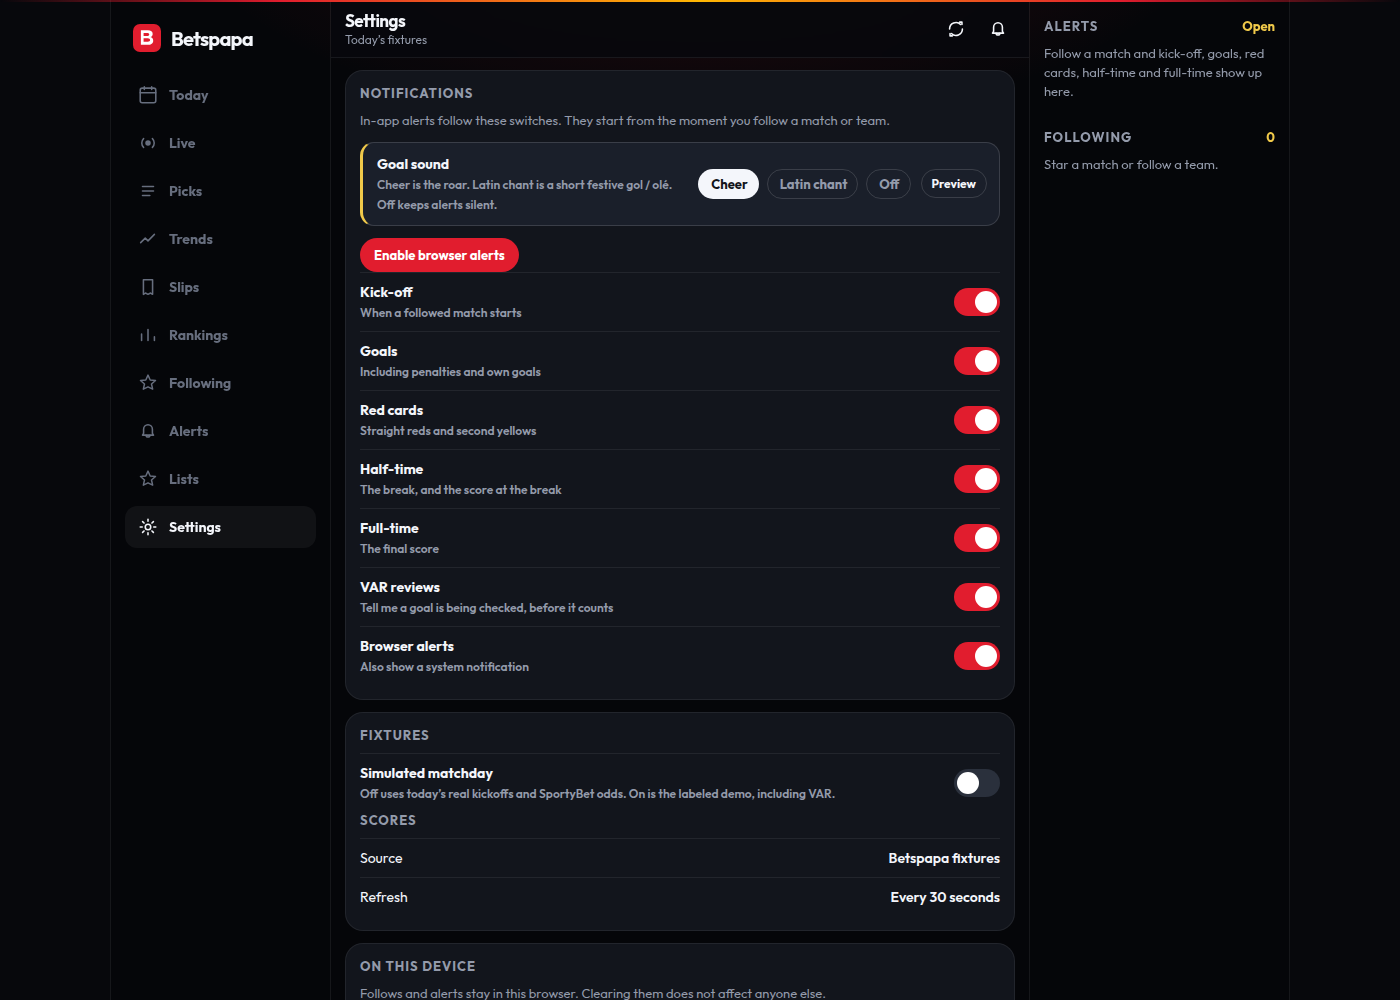
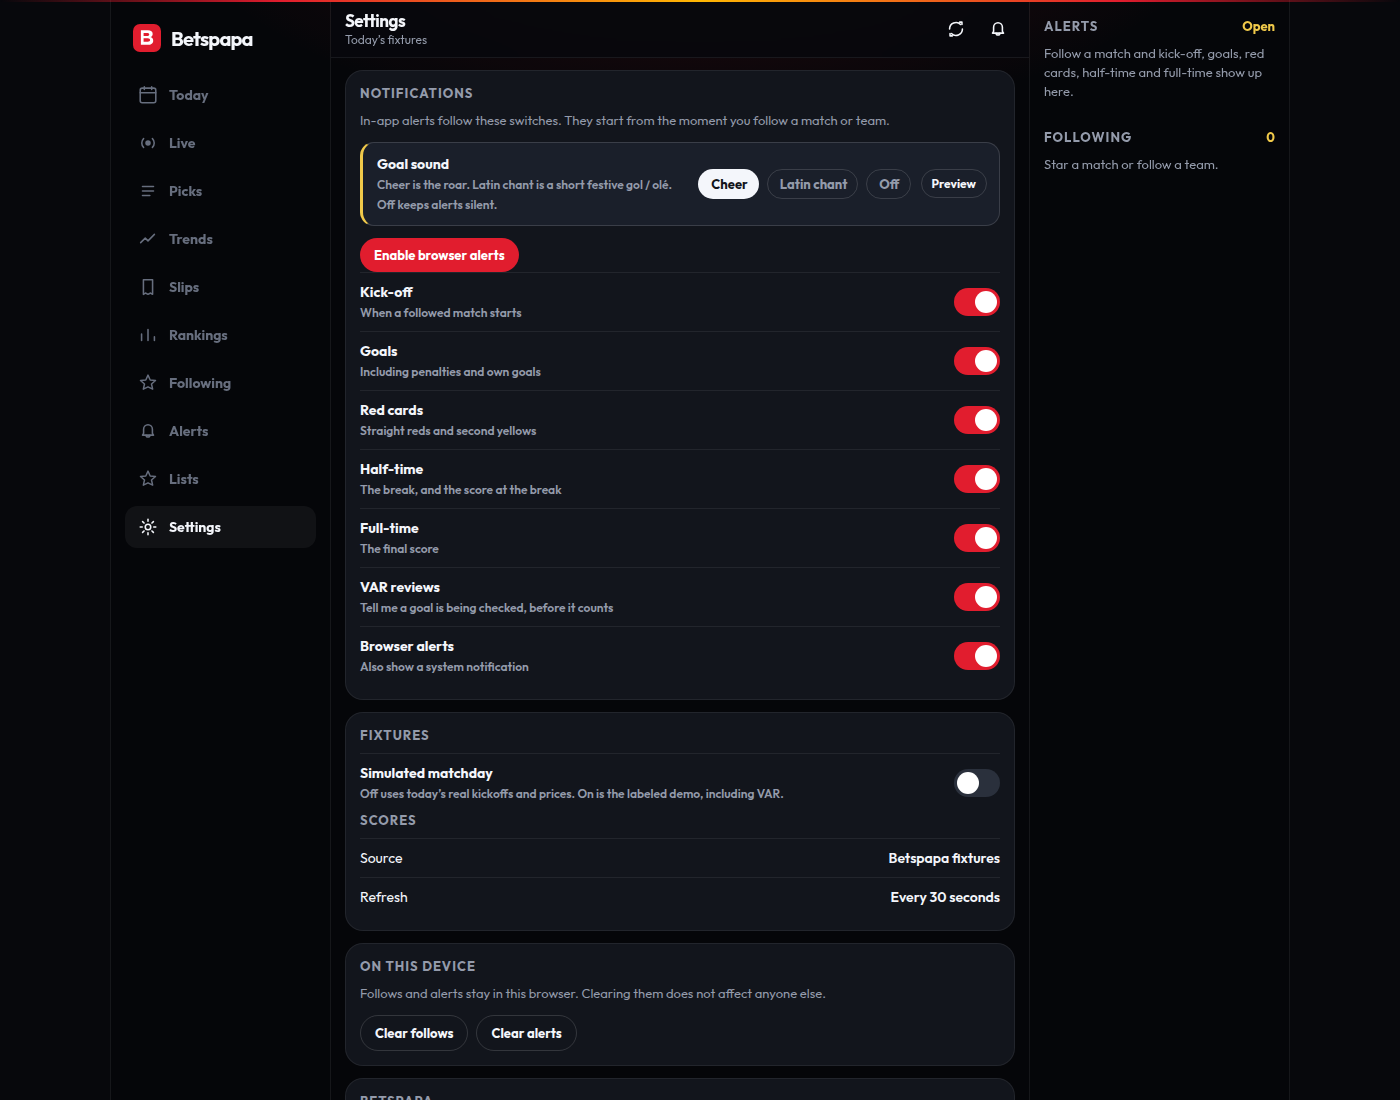
Book qualifying trends on-site and hide bookmaker price labels.
Qualifying tips land on the slip automatically and settle there. SportyBet and Betway cards stay on that slip with an honest unavailable code, and prices are no longer labeled as a bookmaker source.

diff --git a/src/state/product.tsx b/src/state/product.tsx
@@ -5,6 +5,7 @@ import {
   isBlacklisted,
   isGreenlisted,
   listTrends,
+  qualifying,
   trendsFromPicks,
   profile,
   seedLedger,
@@ -75,7 +76,8 @@ function notice(id: string, matchId: string, kind: InboxItem['kind'], title: str
 
 export function ProductProvider({ children }: { children: ReactNode }) {
   const { matches, t0, pushNotices } = useStore();
-  const [slip, setSlip] = useState<string[]>(() => read<string[]>(SLIP_KEY, []));
+  const [manual, setManual] = useState<string[]>(() => read<string[]>(SLIP_KEY, []));
+  const [dismissed, setDismissed] = useState<string[]>(() => read<string[]>('betspapa.dismissed.v1', []));
   const [lists, setLists] = useState<ListItem[]>(() => read<ListItem[]>(LIST_KEY, []));
   const [extra, setExtra] = useState<LedgerEntry[]>(() => read<LedgerEntry[]>(LEDGER_KEY, []));
   const baseline = useRef<{ t0: number; status: Map<string, LegStatus>; codes: Map<string, LegStatus> } | null>(null);
@@ -84,13 +86,22 @@ export function ProductProvider({ children }: { children: ReactNode }) {
   const trends = useMemo(() => (picks.some((pick) => pick.trendId.startsWith('price:')) ? trendsFromPicks(picks) : listTrends()), [picks]);
   const ledger = useMemo(() => [...seedLedger(), ...extra], [extra]);
   const greenMarkets = lists.filter((item) => item.list === 'green' && item.scope === 'market').map((item) => item.id);
+  const autoIds = useMemo(
+    () => qualifying(picks).filter((pick) => !isBlacklisted(pick, lists)).map((pick) => pick.id),
+    [picks, lists],
+  );
+  const slip = useMemo(
+    () => [...new Set([...autoIds.filter((id) => !dismissed.includes(id)), ...manual.filter((id) => !dismissed.includes(id))])],
+    [autoIds, manual, dismissed],
+  );
   const suggestions = useMemo(() => suggestPicks(picks, slip, greenMarkets).filter((pick) => !isBlacklisted(pick, lists)), [picks, slip, greenMarkets, lists]);
   const slipPicks = useMemo(() => picks.filter((pick) => slip.includes(pick.id)), [picks, slip]);
   const codes = useMemo(() => bookingCodes(slipPicks), [slipPicks]);
   const visiblePicks = useMemo(() => picks.filter((pick) => !isBlacklisted(pick, lists)), [picks, lists]);
   const hiddenCount = picks.length - visiblePicks.length;
 
-  useEffect(() => write(SLIP_KEY, slip), [slip]);
+  useEffect(() => write(SLIP_KEY, manual), [manual]);
+  useEffect(() => write('betspapa.dismissed.v1', dismissed), [dismissed]);
   useEffect(() => write(LIST_KEY, lists), [lists]);
   useEffect(() => write(LEDGER_KEY, extra), [extra]);
 
@@ -131,24 +142,30 @@ export function ProductProvider({ children }: { children: ReactNode }) {
         result: pick.status,
       });
     }
-    for (const code of codes) {
-      if (!code.legs.length || code.status === 'open') continue;
-      const before = baseline.current.codes.get(code.id) ?? 'open';
-      if (before === code.status) continue;
+    const slipStatus: LegStatus = !slipPicks.length
+      ? 'open'
+      : slipPicks.some((pick) => pick.status === 'bust')
+        ? 'bust'
+        : slipPicks.every((pick) => pick.status === 'won')
+          ? 'won'
+          : 'open';
+    const beforeSlip = baseline.current.codes.get('slip') ?? 'open';
+    if (slipPicks.length && beforeSlip !== slipStatus && slipStatus !== 'open') {
       notes.push(
         notice(
-          `code:${t0}:${code.id}:${code.status}:${code.code}`,
-          code.legs[0]?.matchId ?? '',
-          code.status === 'won' ? 'win' : 'bust',
-          code.status === 'won' ? `Booking won · ${code.name}` : `Booking bust · ${code.name}`,
-          `${code.code} · demo code`,
+          `slip:${t0}:${slipStatus}`,
+          slipPicks[0]?.matchId ?? '',
+          slipStatus === 'won' ? 'win' : 'bust',
+          slipStatus === 'won' ? 'Slip won' : 'Slip bust',
+          'Booked trends settled on Betspapa. Bookmaker codes are still unavailable.',
         ),
       );
     }
+    codeStatus.set('slip', slipStatus);
     baseline.current = { t0, status, codes: codeStatus };
     if (rows.length) setExtra((current) => [...rows, ...current].slice(0, 200));
     if (notes.length) pushNotices(notes);
-  }, [picks, codes, matches, t0, pushNotices]);
+  }, [picks, codes, matches, slipPicks, t0, pushNotices]);
 
   const value = useMemo<Product>(
     () => ({
@@ -161,8 +178,14 @@ export function ProductProvider({ children }: { children: ReactNode }) {
       ledger,
       codes,
       hiddenCount,
-      addLeg: (id) => setSlip((current) => (current.includes(id) ? current : [...current, id])),
-      removeLeg: (id) => setSlip((current) => current.filter((item) => item !== id)),
+      addLeg: (id) => {
+        setDismissed((current) => current.filter((item) => item !== id));
+        setManual((current) => (current.includes(id) ? current : [...current, id]));
+      },
+      removeLeg: (id) => {
+        setDismissed((current) => (current.includes(id) ? current : [...current, id]));
+        setManual((current) => current.filter((item) => item !== id));
+      },
       toggleList: (item, list) =>
         setLists((current) => {
           const existing = current.find((entry) => entry.scope === item.scope && entry.id === item.id && entry.list === list);

diff --git a/src/pages/SlipsPage.tsx b/src/pages/SlipsPage.tsx
@@ -1,4 +1,3 @@
-import { useState } from 'react';
 import { PickCard } from '../components/PickCard';
 import { cx } from '../lib/format';
 import { useProduct } from '../state/product';
@@ -6,46 +5,41 @@ import { useProduct } from '../state/product';
 export function SlipsPage() {
   const { picks, slip, codes } = useProduct();
   const legs = picks.filter((pick) => slip.includes(pick.id));
-  const [copied, setCopied] = useState('');
+  const won = legs.filter((pick) => pick.status === 'won').length;
+  const bust = legs.filter((pick) => pick.status === 'bust').length;
+  const open = legs.length - won - bust;
   return (
     <div className="stack">
-      <p className="page-lead">Booking codes are demo slips. No bookmaker API is connected. Each desk only prices the markets it lists, and the code changes as the legs change.</p>
-      {legs.length === 0 ? (
-        <div className="empty">
-          <h2>Slip is empty</h2>
-          <p>Add a qualifying pick. PapaSlip, Northline, and Kiosk Demo will each write a code for the markets they cover.</p>
-        </div>
-      ) : (
-        legs.map((pick) => <PickCard key={pick.id} pick={pick} />)
-      )}
+      <p className="page-lead">
+        Every tip above 80% is booked on this slip. Betspapa tracks each leg and settles wins and busts here. Bookmaker codes stay unavailable until a live booking connection exists.
+      </p>
+      <p className="page-lead">
+        {legs.length} booked · {open} open · {won} won · {bust} bust
+      </p>
       <section className="stack-block">
-        <h2>Demo booking codes</h2>
+        <h2>Booking codes</h2>
         {codes.map((code) => (
           <article key={code.id} className={cx('code-card', code.status !== 'open' && `pick-${code.status}`)}>
             <header>
               <strong>{code.name}</strong>
-              <span>{code.note}</span>
+              <span>{code.bookingState === 'ready' ? 'Code ready' : 'Code unavailable'}</span>
             </header>
-            <p className="booking-code">{code.code || 'Add a covered market'}</p>
+            <p className="booking-code">{code.code || 'Unavailable'}</p>
             <p className="lede">
-              {code.legs.length} covered
-              {code.skipped.length > 0 ? ` · ${code.skipped.length} not on this desk` : ''} · {code.status}
+              {code.note} Tracked here: {code.legs.length} legs, {code.status === 'won' ? 'won' : code.status === 'bust' ? 'bust' : 'still open'}.
             </p>
-            {code.code && (
-              <button
-                type="button"
-                className="btn btn-tiny"
-                onClick={() => {
-                  void navigator.clipboard?.writeText(code.code);
-                  setCopied(code.id);
-                }}
-              >
-                {copied === code.id ? 'Copied' : 'Copy code'}
-              </button>
-            )}
           </article>
         ))}
       </section>
+      {legs.length === 0 ? (
+        <div className="empty">
+          <h2>Nothing booked</h2>
+          <p>Qualifying tips appear here on their own. You can still add a pick from the board.</p>
+        </div>
+      ) : (
+        legs.slice(0, 8).map((pick) => <PickCard key={pick.id} pick={pick} />)
+      )}
+      {legs.length > 8 && <p className="lede">Showing 8 of {legs.length} booked trends. Each booking card above covers every leg.</p>}
     </div>
   );
 }

diff --git a/src/data/board.ts b/src/data/board.ts
@@ -178,25 +178,18 @@ export type Bookmaker = {
 
 export const bookmakers: Bookmaker[] = [
   {
-    id: 'papaslip',
-    name: 'PapaSlip',
-    prefix: 'PAPA',
-    markets: ['over15', 'over25', 'over35', 'under25', 'btts', 'btts-no', 'home', 'away', 'draw'],
-    note: 'Demo desk',
+    id: 'sportybet',
+    name: 'SportyBet',
+    prefix: '',
+    markets: MARKETS.map((market) => market.id),
+    note: 'Code unavailable. No live booking connection.',
   },
   {
-    id: 'northline',
-    name: 'Northline',
-    prefix: 'NTH',
-    markets: ['home', 'away', 'draw', 'home-score', 'away-score', 'clean'],
-    note: 'Demo desk',
-  },
-  {
-    id: 'kiosk',
-    name: 'Kiosk Demo',
-    prefix: 'KIOSK',
-    markets: ['over25', 'over35', 'btts', 'btts-no', 'clean', 'home-score', 'away-score'],
-    note: 'Demo desk',
+    id: 'betway',
+    name: 'Betway',
+    prefix: '',
+    markets: MARKETS.map((market) => market.id),
+    note: 'Code unavailable. No live booking connection.',
   },
 ];
 
@@ -376,7 +369,7 @@ function picksFromOdds(match: Match): PickView[] {
       marketLabel: marketInfo(market).label,
       rate: implied,
       support,
-      supportText: `SportyBet ${price.toFixed(2)}. ${oneXTwo ? supportText(support, opposed.shortName, market) : support > 0 ? 'Short price, so this is stronger.' : support < 0 ? 'Longer price, so this is softer.' : 'The price sits in the middle.'}`,
+      supportText: `Price ${price.toFixed(2)}. ${oneXTwo ? supportText(support, opposed.shortName, market) : support > 0 ? 'Short price, so this is stronger.' : support < 0 ? 'Longer price, so this is softer.' : 'The price sits in the middle.'}`,
       confidence,
       grade: gradeFor(confidence),
       bookmarked: implied > TIP_RATE,
@@ -445,18 +438,11 @@ export type BookingCode = {
   name: string;
   note: string;
   code: string;
+  bookingState: 'unavailable' | 'ready';
   legs: PickView[];
   skipped: PickView[];
   status: LegStatus;
 };
-
-export function bookingCode(prefix: string, legIds: string[]): string {
-  const source = [...legIds].sort().join('.');
-  let hash = 2166136261;
-  for (const char of source) hash = Math.imul(hash ^ char.charCodeAt(0), 16777619);
-  const body = (hash >>> 0).toString(36).toUpperCase().padStart(4, '0').slice(-4);
-  return `${prefix}-${body}`;
-}
 
 export function bookingCodes(slip: PickView[]): BookingCode[] {
   return bookmakers.map((book) => {
@@ -471,7 +457,8 @@ export function bookingCodes(slip: PickView[]): BookingCode[] {
       id: book.id,
       name: book.name,
       note: book.note,
-      code: legs.length ? bookingCode(book.prefix, legs.map((leg) => leg.id)) : '',
+      code: '',
+      bookingState: 'unavailable',
       legs,
       skipped,
       status,

diff --git a/src/data/board.test.ts b/src/data/board.test.ts
@@ -56,17 +56,17 @@ describe('VAR settlement', () => {
     expect(buildPicks(board(24_000)).find((pick) => pick.id === 'che-mci:che-score')?.status).toBe('won');
   });
 
-  it('builds demo booking codes from the slip markets each desk can take', () => {
+  it('books the same won legs at each bookmaker and leaves the code unavailable', () => {
     const picks = qualifying(buildPicks(board(32_000)));
     const slip = picks.filter((pick) => pick.id === 'ars-liv:ars-over35' || pick.id === 'che-mci:che-score');
     const codes = bookingCodes(slip);
-    const papa = codes.find((code) => code.id === 'papaslip');
-    const north = codes.find((code) => code.id === 'northline');
-    expect(papa?.code.startsWith('PAPA-')).toBe(true);
-    expect(papa?.legs.map((leg) => leg.market)).toEqual(['over35']);
-    expect(papa?.status).toBe('won');
-    expect(north?.legs.map((leg) => leg.market)).toEqual(['home-score']);
-    expect(north?.status).toBe('won');
+    expect(codes.map((code) => code.name)).toEqual(['SportyBet', 'Betway']);
+    for (const code of codes) {
+      expect(code.bookingState).toBe('unavailable');
+      expect(code.code).toBe('');
+      expect(code.status).toBe('won');
+      expect(code.legs.map((leg) => leg.market).sort()).toEqual(['home-score', 'over35']);
+    }
     expect(settle('over35', board(24_000).find((match) => match.id === 'ars-liv')!, true)).toBe('open');
   });
 });

diff --git a/src/pages/PicksPage.tsx b/src/pages/PicksPage.tsx
@@ -24,7 +24,7 @@ export function PicksPage() {
     <div className="stack">
       <p className="page-lead">
         {visiblePicks.some((pick) => pick.trendId.startsWith('price:'))
-          ? 'Tips are SportyBet prices that imply more than 80%. Odds sort low to high or high to low.'
+          ? 'Tips are prices that imply more than 80%. Odds sort low to high or high to low. Qualifying tips are booked on Slips.'
           : 'Tips are trends above 80%. Confidence moves with the opponent. Odds on the simulated board are generated for sorting.'}
       </p>
       <div className="chips" role="tablist" aria-label="Market">

diff --git a/src/pages/TrendsPage.tsx b/src/pages/TrendsPage.tsx
@@ -12,7 +12,7 @@ export function TrendsPage() {
     <div className="stack">
       <p className="page-lead">
         {trends.some((trend) => trend.sample === 0)
-          ? 'Rates on this board are implied by the SportyBet price. Anything above 80% is bookmarked and tipped.'
+          ? 'Rates on this board come from the price. Anything above 80% is bookmarked, tipped, and booked.'
           : 'Occurrence rate is hits divided by the sample. Anything above 80% is bookmarked and tipped automatically.'}
       </p>
       <TrendBlock title="Bookmarked · above 80%" rows={tipped} />

diff --git a/src/pages/SettingsPage.tsx b/src/pages/SettingsPage.tsx
@@ -53,7 +53,7 @@ export function SettingsPage() {
         <div className="setting">
           <div>
             <strong>Simulated matchday</strong>
-            <span>Off uses today’s real kickoffs and SportyBet odds. On is the labeled demo, including VAR.</span>
+            <span>Off uses today’s real kickoffs and prices. On is the labeled demo, including VAR.</span>
           </div>
           <Switch on={settings.dataSource === 'demo'} label="Simulated matchday" onChange={(value) => setSetting('dataSource', value ? 'demo' : 'sporty')} />
         </div>

diff --git a/src/types.ts b/src/types.ts
@@ -57,7 +57,7 @@ export type Match = {
   venue: string | null;
   /** Set while a goal is under review and not yet confirmed. */
   varReview?: VarReview | null;
-  /** Decimal prices from the Betspapa SportyBet feed. */
+  /** Decimal prices supplied with the fixture. */
   odds?: Record<string, number> | null;
   feed?: 'sporty' | 'demo';
 };

diff --git a/README.md b/README.md
@@ -6,7 +6,7 @@ Betspapa tracks a matchday: scores, trends, picks, slips, and results. Club name
 
 ## Fixtures
 
-The default board is today’s real upcoming football from `GET https://api.betspapa.com/api/sportybet/upcoming`, proxied at `/api/fixtures`. Kickoff times, competitions, and SportyBet odds are from that feed. In-play scores are not on a working endpoint, so Live stays empty until a match can be scored. Settings → Simulated matchday turns on the labeled demo, which is also the fallback if the feed is unreachable.
+The default board is today’s real upcoming football from the Betspapa fixtures API, proxied at `/api/fixtures`. Kickoff times, competitions, and prices come from that feed. The site does not name a bookmaker as the source of those prices. In-play scores are not on a working endpoint, so Live stays empty until a match can be scored. Settings → Simulated matchday turns on the labeled demo, which is also the fallback if the feed is unreachable.
 
 ## Demo mode
 
@@ -25,10 +25,10 @@ The simulated matchday is not the default. Turn it on to watch a clock that move
 - **Today / Live / Following** — scores, VAR on the minute, and squad tags when a side is weakened or heavily rotated.
 - **Picks** — tips above 80%, grouped Elite / Strong / Qualified after the opponent check. Odds sort low-to-high or high-to-low. Softened tips are the ones an opponent dragged back through 80%.
 - **Trends** — every tracked rate. Above 80% is bookmarked and tipped. Developing rows are form that is turning before the rate qualifies.
-- **Slips** — demo booking codes for PapaSlip, Northline, and Kiosk Demo. Codes are labeled demo. No bookmaker API is connected.
+- **Slips** — every tip above 80% is booked here and tracked to a win or a bust. SportyBet and Betway cards show the same slip. Their booking codes stay unavailable because Betspapa has no live booking connection and this app does not invent codes.
 - **Rankings** — your settled tips by market, team, and competition for the week, month, and year.
 - **Lists** — blacklist and greenlist teams, competitions, and markets. Blacklisted tips leave the board. Greenlisted markets shape suggestions.
-- **Alerts** — kick-off, VAR, confirmed goals, cards, half-time, full-time, squad flags, and win/bust on tips and booking codes.
+- **Alerts** — kick-off, VAR, confirmed goals, cards, half-time, full-time, squad flags, and win/bust on booked tips and the on-site slip.
 
 Suggestions sit on Picks and follow the markets you slip or greenlist. Form is the last five results beside each trend and pick.
 
